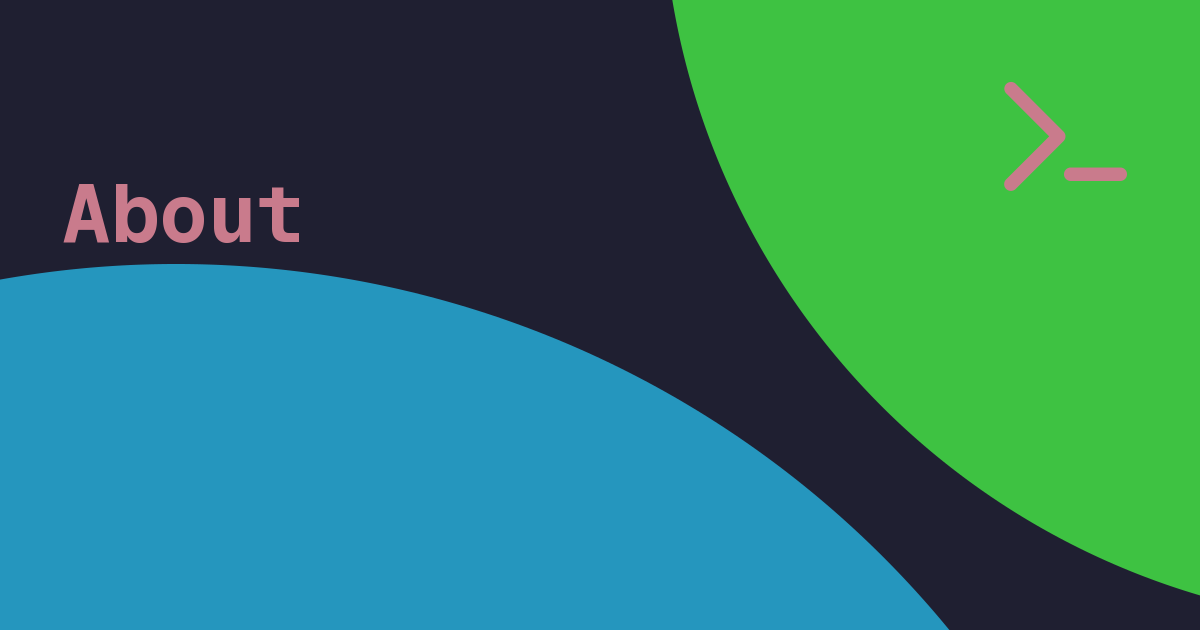
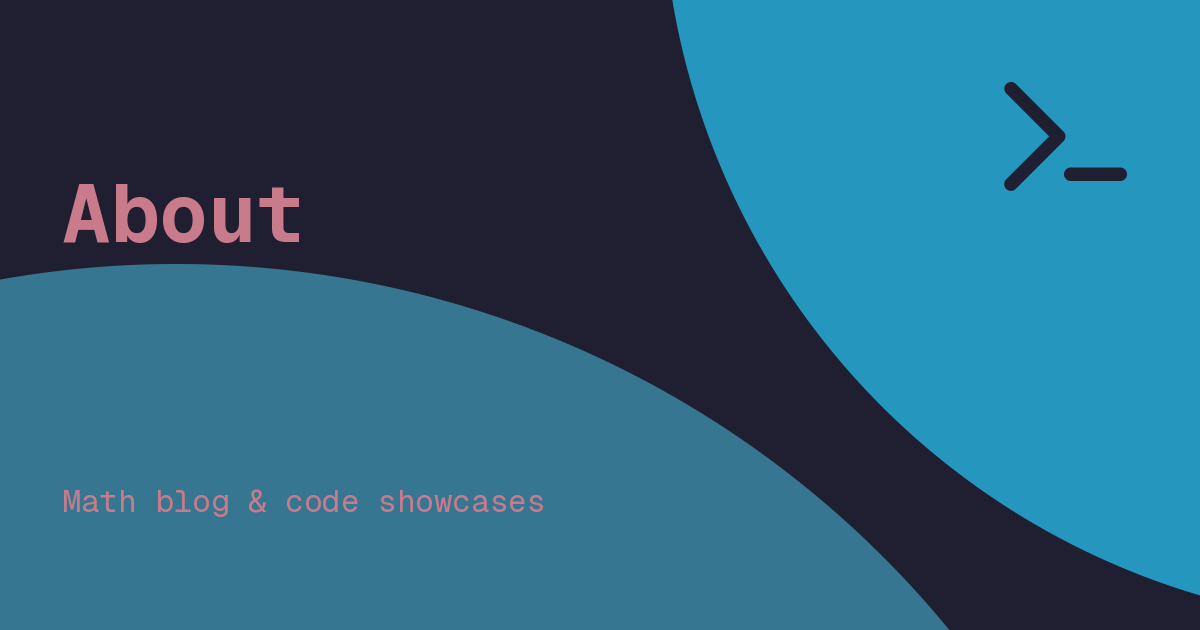
fixed some bugs, created many more

diff --git a/site/index.html b/site/index.html
@@ -25,7 +25,7 @@
     
     
       
-        <title>CherryHub</title>
+        <title>CherryHub - CherryHub</title>
       
     
     
@@ -61,16 +61,14 @@
     
   
 <meta property="og:type" content="website" />
-<meta property="og:title" content="Homepage" />
-<meta property="og:description" content="Math blog & code showcases" />
+<meta property="og:title" content="CherryHub" />
 <meta property="og:image" content="https://maracujadev.github.io/assets/images/social/index.png" />
 <meta property="og:image:type" content="image/png" />
 <meta property="og:image:width" content="1200" />
 <meta property="og:image:height" content="630" />
 <meta property="og:url" content="https://maracujadev.github.io/" />
 <meta property="twitter:card" content="summary_large_image" />
-<meta property="twitter:title" content="Homepage" />
-<meta property="twitter:description" content="Math blog & code showcases" />
+<meta property="twitter:title" content="CherryHub" />
 <meta property="twitter:image" content="https://maracujadev.github.io/assets/images/social/index.png" />
 </head>
   
@@ -125,7 +123,7 @@
         <div class="md-header__topic" data-md-component="header-topic">
           <span class="md-ellipsis">
             
-              Homepage
+              CherryHub
             
           </span>
         </div>
@@ -383,6 +381,9 @@
   
 
     
+      <br>
+      <small>Cherry's math blog & code showcases</small>
+    
   </span>
   
   
@@ -400,6 +401,9 @@
     Homepage
   
 
+    
+      <br>
+      <small>Cherry's math blog & code showcases</small>
     
   </span>
   
@@ -833,6 +837,9 @@ Stay up to date if you care about this.</p>
 
 
 
+
+  
+  
 
 
 

diff --git a/site/blog/variational-calculus/index.html b/site/blog/variational-calculus/index.html
@@ -60,7 +60,6 @@
   
 <meta property="og:type" content="website" />
 <meta property="og:title" content="The Elegance of Variational Calculus - CherryHub" />
-<meta property="og:description" content="Math blog & code showcases" />
 <meta property="og:image" content="https://maracujadev.github.io/assets/images/social/blog/variational-calculus.png" />
 <meta property="og:image:type" content="image/png" />
 <meta property="og:image:width" content="1200" />
@@ -68,7 +67,6 @@
 <meta property="og:url" content="https://maracujadev.github.io/blog/variational-calculus/" />
 <meta property="twitter:card" content="summary_large_image" />
 <meta property="twitter:title" content="The Elegance of Variational Calculus - CherryHub" />
-<meta property="twitter:description" content="Math blog & code showcases" />
 <meta property="twitter:image" content="https://maracujadev.github.io/assets/images/social/blog/variational-calculus.png" />
 </head>
   
@@ -373,6 +371,9 @@
     Homepage
   
 
+    
+      <br>
+      <small>Cherry's math blog & code showcases</small>
     
   </span>
   

diff --git a/site/blog/category/math/index.html b/site/blog/category/math/index.html
@@ -64,7 +64,6 @@
   
 <meta property="og:type" content="website" />
 <meta property="og:title" content="Math - CherryHub" />
-<meta property="og:description" content="Math blog & code showcases" />
 <meta property="og:image" content="https://maracujadev.github.io/assets/images/social/blog/category/math.png" />
 <meta property="og:image:type" content="image/png" />
 <meta property="og:image:width" content="1200" />
@@ -72,7 +71,6 @@
 <meta property="og:url" content="https://maracujadev.github.io/blog/category/math/" />
 <meta property="twitter:card" content="summary_large_image" />
 <meta property="twitter:title" content="Math - CherryHub" />
-<meta property="twitter:description" content="Math blog & code showcases" />
 <meta property="twitter:image" content="https://maracujadev.github.io/assets/images/social/blog/category/math.png" />
 </head>
   
@@ -375,6 +373,9 @@
     Homepage
   
 
+    
+      <br>
+      <small>Cherry's math blog & code showcases</small>
     
   </span>
   

diff --git a/site/blog/index.html b/site/blog/index.html
@@ -64,7 +64,6 @@
   
 <meta property="og:type" content="website" />
 <meta property="og:title" content="My Blog Posts - CherryHub" />
-<meta property="og:description" content="Math blog & code showcases" />
 <meta property="og:image" content="https://maracujadev.github.io/assets/images/social/blog/index.png" />
 <meta property="og:image:type" content="image/png" />
 <meta property="og:image:width" content="1200" />
@@ -72,7 +71,6 @@
 <meta property="og:url" content="https://maracujadev.github.io/blog/" />
 <meta property="twitter:card" content="summary_large_image" />
 <meta property="twitter:title" content="My Blog Posts - CherryHub" />
-<meta property="twitter:description" content="Math blog & code showcases" />
 <meta property="twitter:image" content="https://maracujadev.github.io/assets/images/social/blog/index.png" />
 </head>
   
@@ -375,6 +373,9 @@
     Homepage
   
 
+    
+      <br>
+      <small>Cherry's math blog & code showcases</small>
     
   </span>
   

diff --git a/site/cherrybot/index.html b/site/cherrybot/index.html
@@ -64,7 +64,6 @@
   
 <meta property="og:type" content="website" />
 <meta property="og:title" content="CherryBot - CherryHub" />
-<meta property="og:description" content="Math blog & code showcases" />
 <meta property="og:image" content="https://maracujadev.github.io/assets/images/social/cherrybot.png" />
 <meta property="og:image:type" content="image/png" />
 <meta property="og:image:width" content="1200" />
@@ -72,7 +71,6 @@
 <meta property="og:url" content="https://maracujadev.github.io/cherrybot/" />
 <meta property="twitter:card" content="summary_large_image" />
 <meta property="twitter:title" content="CherryBot - CherryHub" />
-<meta property="twitter:description" content="Math blog & code showcases" />
 <meta property="twitter:image" content="https://maracujadev.github.io/assets/images/social/cherrybot.png" />
 </head>
   
@@ -375,6 +373,9 @@
     Homepage
   
 
+    
+      <br>
+      <small>Cherry's math blog & code showcases</small>
     
   </span>
   

diff --git a/site/loesungen/index.html b/site/loesungen/index.html
@@ -60,7 +60,6 @@
   
 <meta property="og:type" content="website" />
 <meta property="og:title" content="Loesungen - CherryHub" />
-<meta property="og:description" content="Math blog & code showcases" />
 <meta property="og:image" content="https://maracujadev.github.io/assets/images/social/loesungen.png" />
 <meta property="og:image:type" content="image/png" />
 <meta property="og:image:width" content="1200" />
@@ -68,7 +67,6 @@
 <meta property="og:url" content="https://maracujadev.github.io/loesungen/" />
 <meta property="twitter:card" content="summary_large_image" />
 <meta property="twitter:title" content="Loesungen - CherryHub" />
-<meta property="twitter:description" content="Math blog & code showcases" />
 <meta property="twitter:image" content="https://maracujadev.github.io/assets/images/social/loesungen.png" />
 </head>
   
@@ -366,6 +364,9 @@
     Homepage
   
 
+    
+      <br>
+      <small>Cherry's math blog & code showcases</small>
     
   </span>
   

diff --git a/site/about/index.html b/site/about/index.html
@@ -62,7 +62,6 @@
   
 <meta property="og:type" content="website" />
 <meta property="og:title" content="About - CherryHub" />
-<meta property="og:description" content="Math blog & code showcases" />
 <meta property="og:image" content="https://maracujadev.github.io/assets/images/social/about.png" />
 <meta property="og:image:type" content="image/png" />
 <meta property="og:image:width" content="1200" />
@@ -70,7 +69,6 @@
 <meta property="og:url" content="https://maracujadev.github.io/about/" />
 <meta property="twitter:card" content="summary_large_image" />
 <meta property="twitter:title" content="About - CherryHub" />
-<meta property="twitter:description" content="Math blog & code showcases" />
 <meta property="twitter:image" content="https://maracujadev.github.io/assets/images/social/about.png" />
 </head>
   
@@ -373,6 +371,9 @@
     Homepage
   
 
+    
+      <br>
+      <small>Cherry's math blog & code showcases</small>
     
   </span>
   

diff --git a/site/404.html b/site/404.html
@@ -350,6 +350,9 @@
   
 
     
+      <br>
+      <small>Cherry's math blog & code showcases</small>
+    
   </span>
   
   

diff --git a/docs/cherrybot.md b/docs/cherrybot.md
@@ -7,6 +7,12 @@ If anything ever doesn't work, you should probably check if you have everything 
 I generally recommend you to check the documentation if anything ever breaks. If this doesn't fix it, the root is something
 that most definitely but perchance occasionally possibly may have been my fault. Oops.
 
+
+Before anything else, the most important command:  
+
+- type `%report [text]` to have a message sent to me directly  
+Whether you have a problem, want to suggest something, whatever. The text will be given to me via bot logs and I will read it ASAP. 
+
 ### Setting up an admin role
 
 - this can only be done by the server owner
@@ -25,8 +31,35 @@ that most definitely but perchance occasionally possibly may have been my fault.
 
 ### Reaction-role messages
 
-
+Work in progress.
 
 ### Using the to-do feature
 
+There is a server-stored to-do list connected to each cherrybot user. The list is created upon first using a to-do related command.
 
+- use `%todo see` to view your to-do list content
+- use `%todo add [task]` to add [task] to your to-do list
+- use `%todo remove [index]` to remove the [index]-th task from your to-do list
+- use `%todo` to quick view an explanation for the three commands
+
+### WolframAlpha Plugin
+
+Work in progress.
+
+### Admin utilities
+
+- use `createrole [hex] [role name]` to create a role called [role name] with color [hex]
+
+### Fun commands
+
+Work in progress. 
+
+### Cherrybot Troubleshooting
+
+- use `%stats` to see the amount of servers the bot is employed in + total user count
+- use `%ping` to see the bot latency; useful for testing bot activity / downtime
+- use `%uptime` to see time amount of the current bot instance. please report if you notice an oddly low time amount
+
+### Passive bot functions
+
+- the cherrybot sends a welcome message whenever someone joins the server, given that a welcome channel was set up by an admin

diff --git a/docs/index.md b/docs/index.md
@@ -5,7 +5,7 @@ subtitle: Cherry's math blog & code showcases
 
 # Welcome to the CherryHub
 
-I'm a mathematics student at the University of Leipzig and personal tutor.  
+I'm a mathematics student at the University of Leipzig and personal tutor.
 This is a website for showcasing computational projects and a place where I blog about mathematics for anyone interested in my work.
 
 ## What you can find here
@@ -28,6 +28,8 @@ Check out my article on the Calculus of Variations:
 
 This is still a work in progress! I'm planning to upload some study sheets and tutoring materials here. 
 Stay up to date if you care about this.
+
+Expect articles on math expressed via Julia scripting or theory behind chess and speedcubing.
 
 <script src="https://cdn.cubing.net/js/cubing/twisty" type="module"></script>
 <twisty-player alg="R U R' U R U2' R'"></twisty-player>

diff --git a/docs/about.md b/docs/about.md
@@ -14,8 +14,8 @@ This blog was originally started in September 2026. I cannot guarantee regular u
 ### Experience
 
 - **Abitur / High school diploma** - 2026, Average of 1.5
-- **B.Sc. Mathematics** - 2026 - (2029), University of Leipzig
-- **Professional tutor of mathematics & chemistry**, April 2026 - Present
+- **B.Sc. Mathematics** - 2026 - (2029), Leipzig University
+- **Professional tutor in mathematics & chemistry**, April 2026 - Present
 
 
 ## How to contact me

diff --git a/docs/learn/posts/bessel-in-julia.md b/docs/learn/posts/bessel-in-julia.md
@@ -1,0 +1,9 @@
+---
+date: 2026-10-19
+title: Visualizing Bessel Functions in Julia
+slug: bessel-in-julia
+categories:
+  - Math
+---
+# Visualizing Bessel Functions in Julia
+
